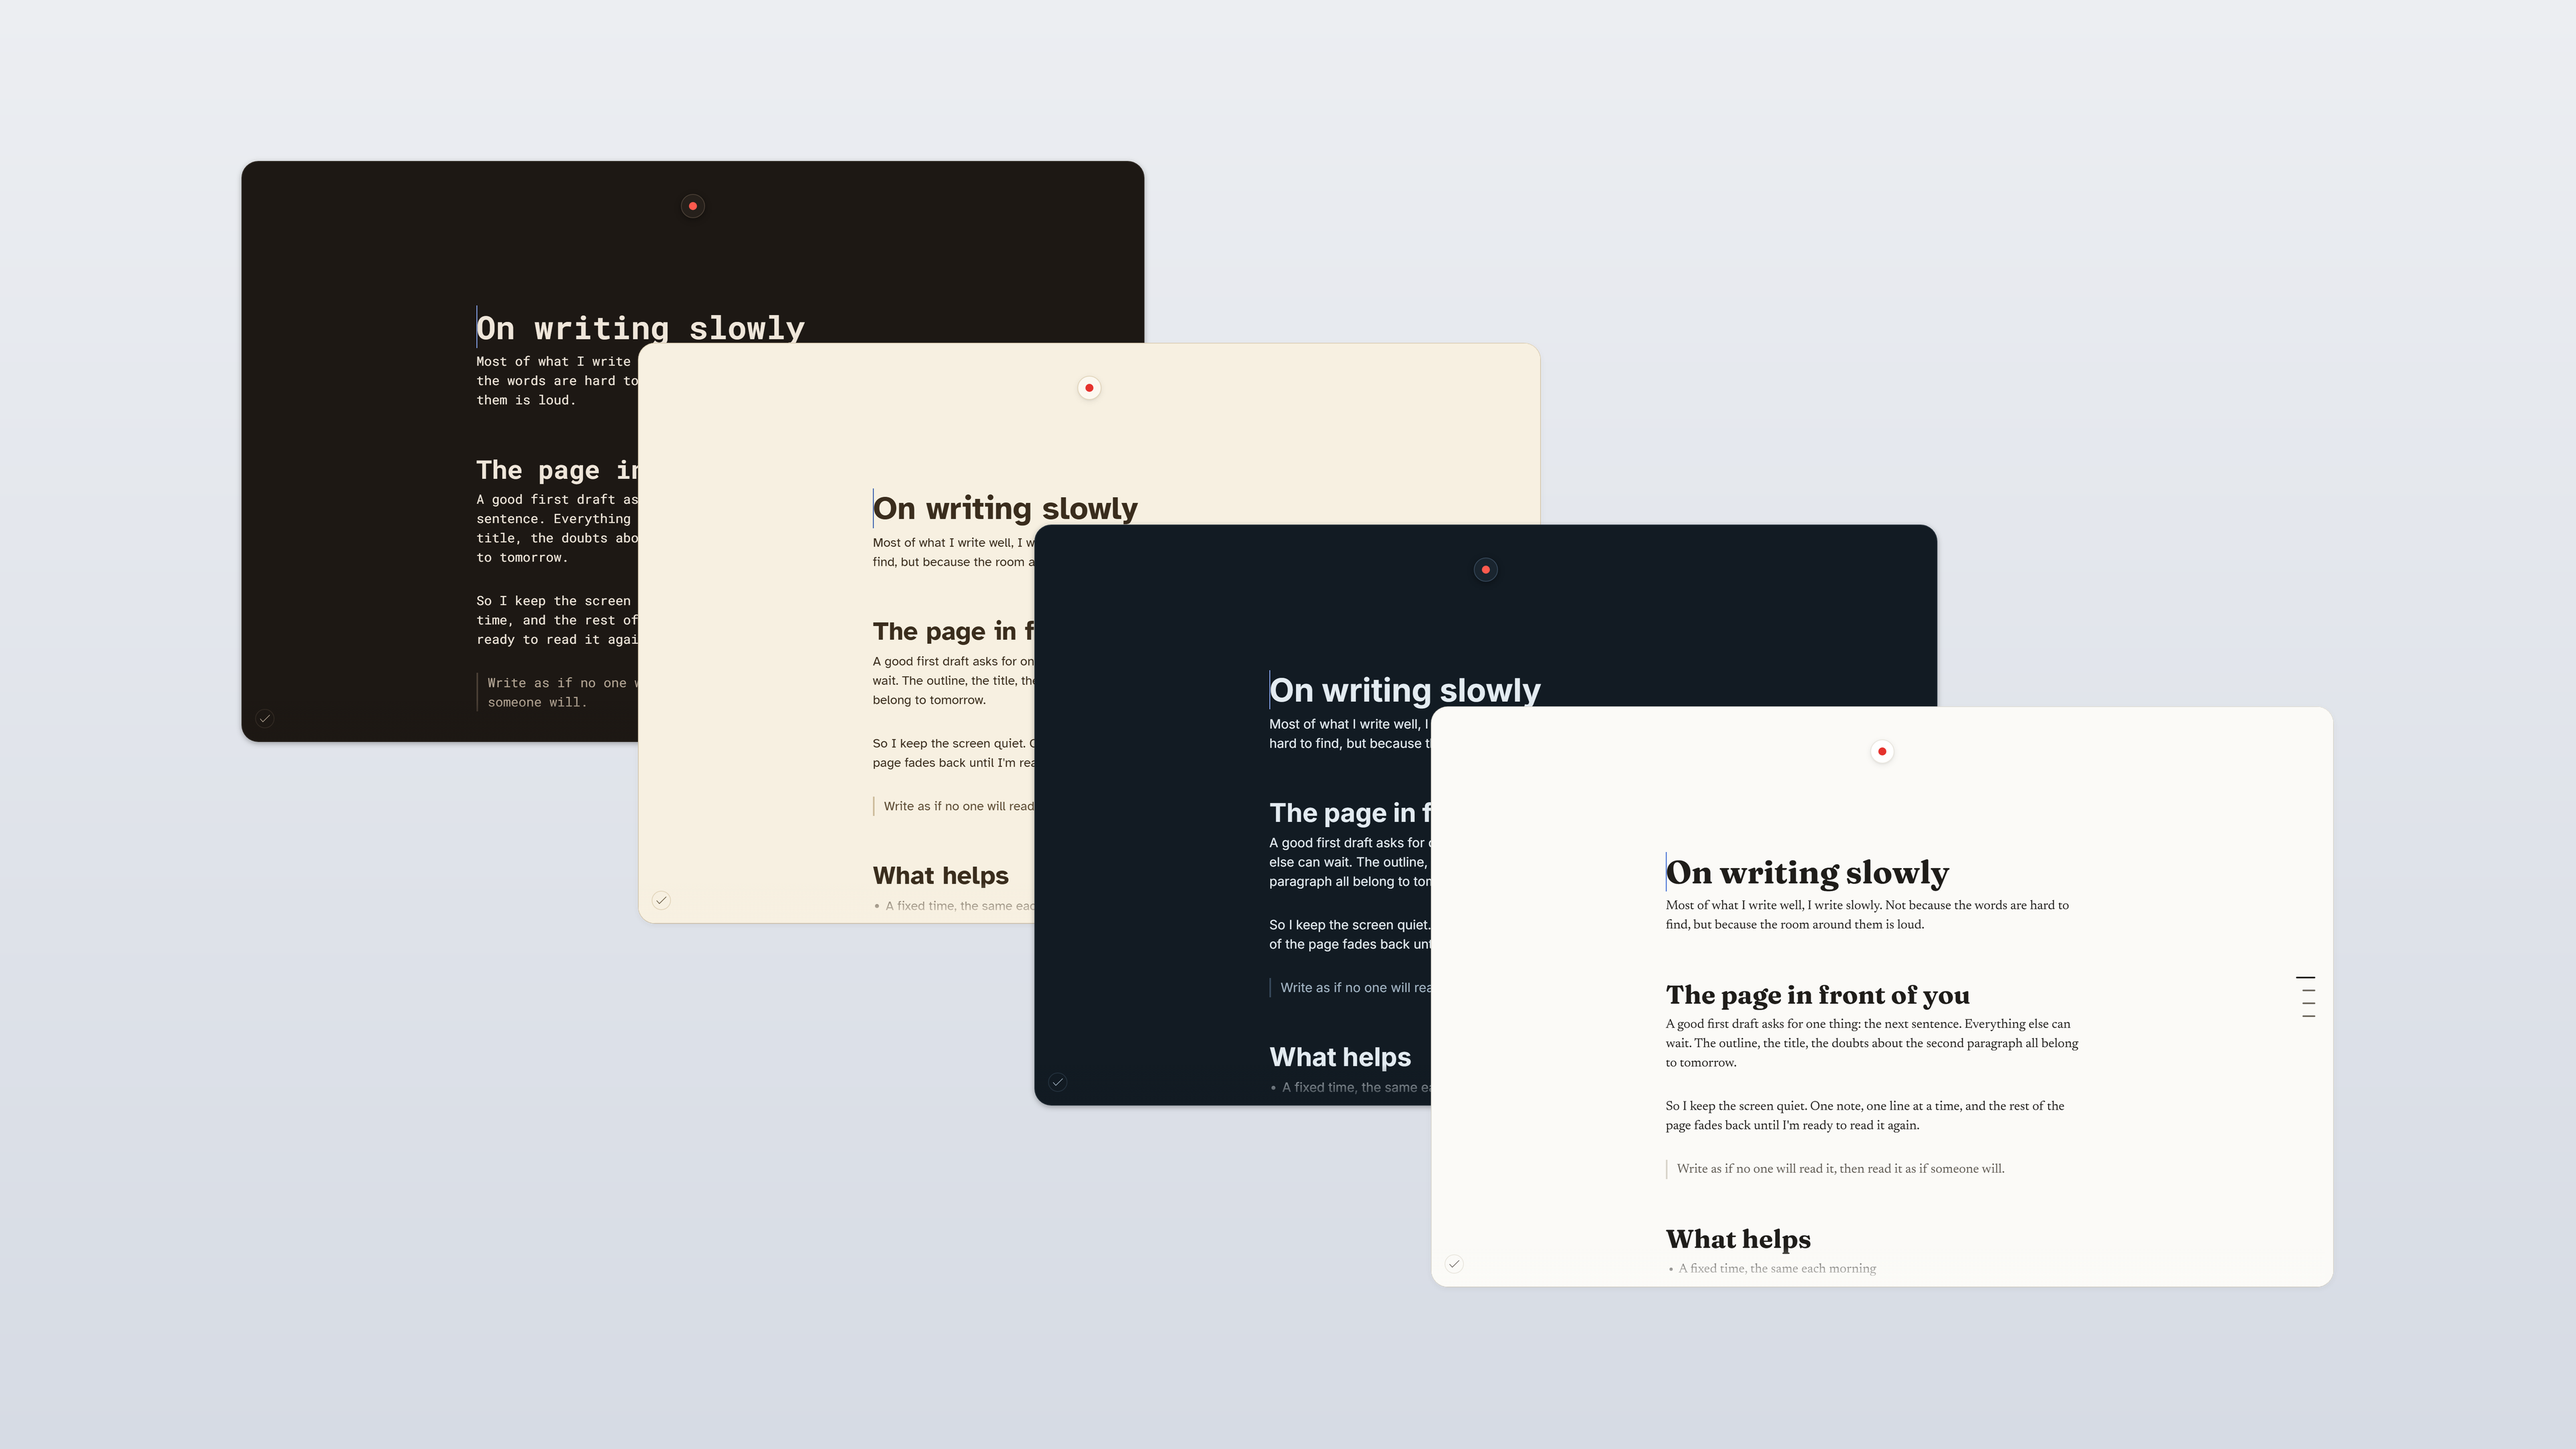
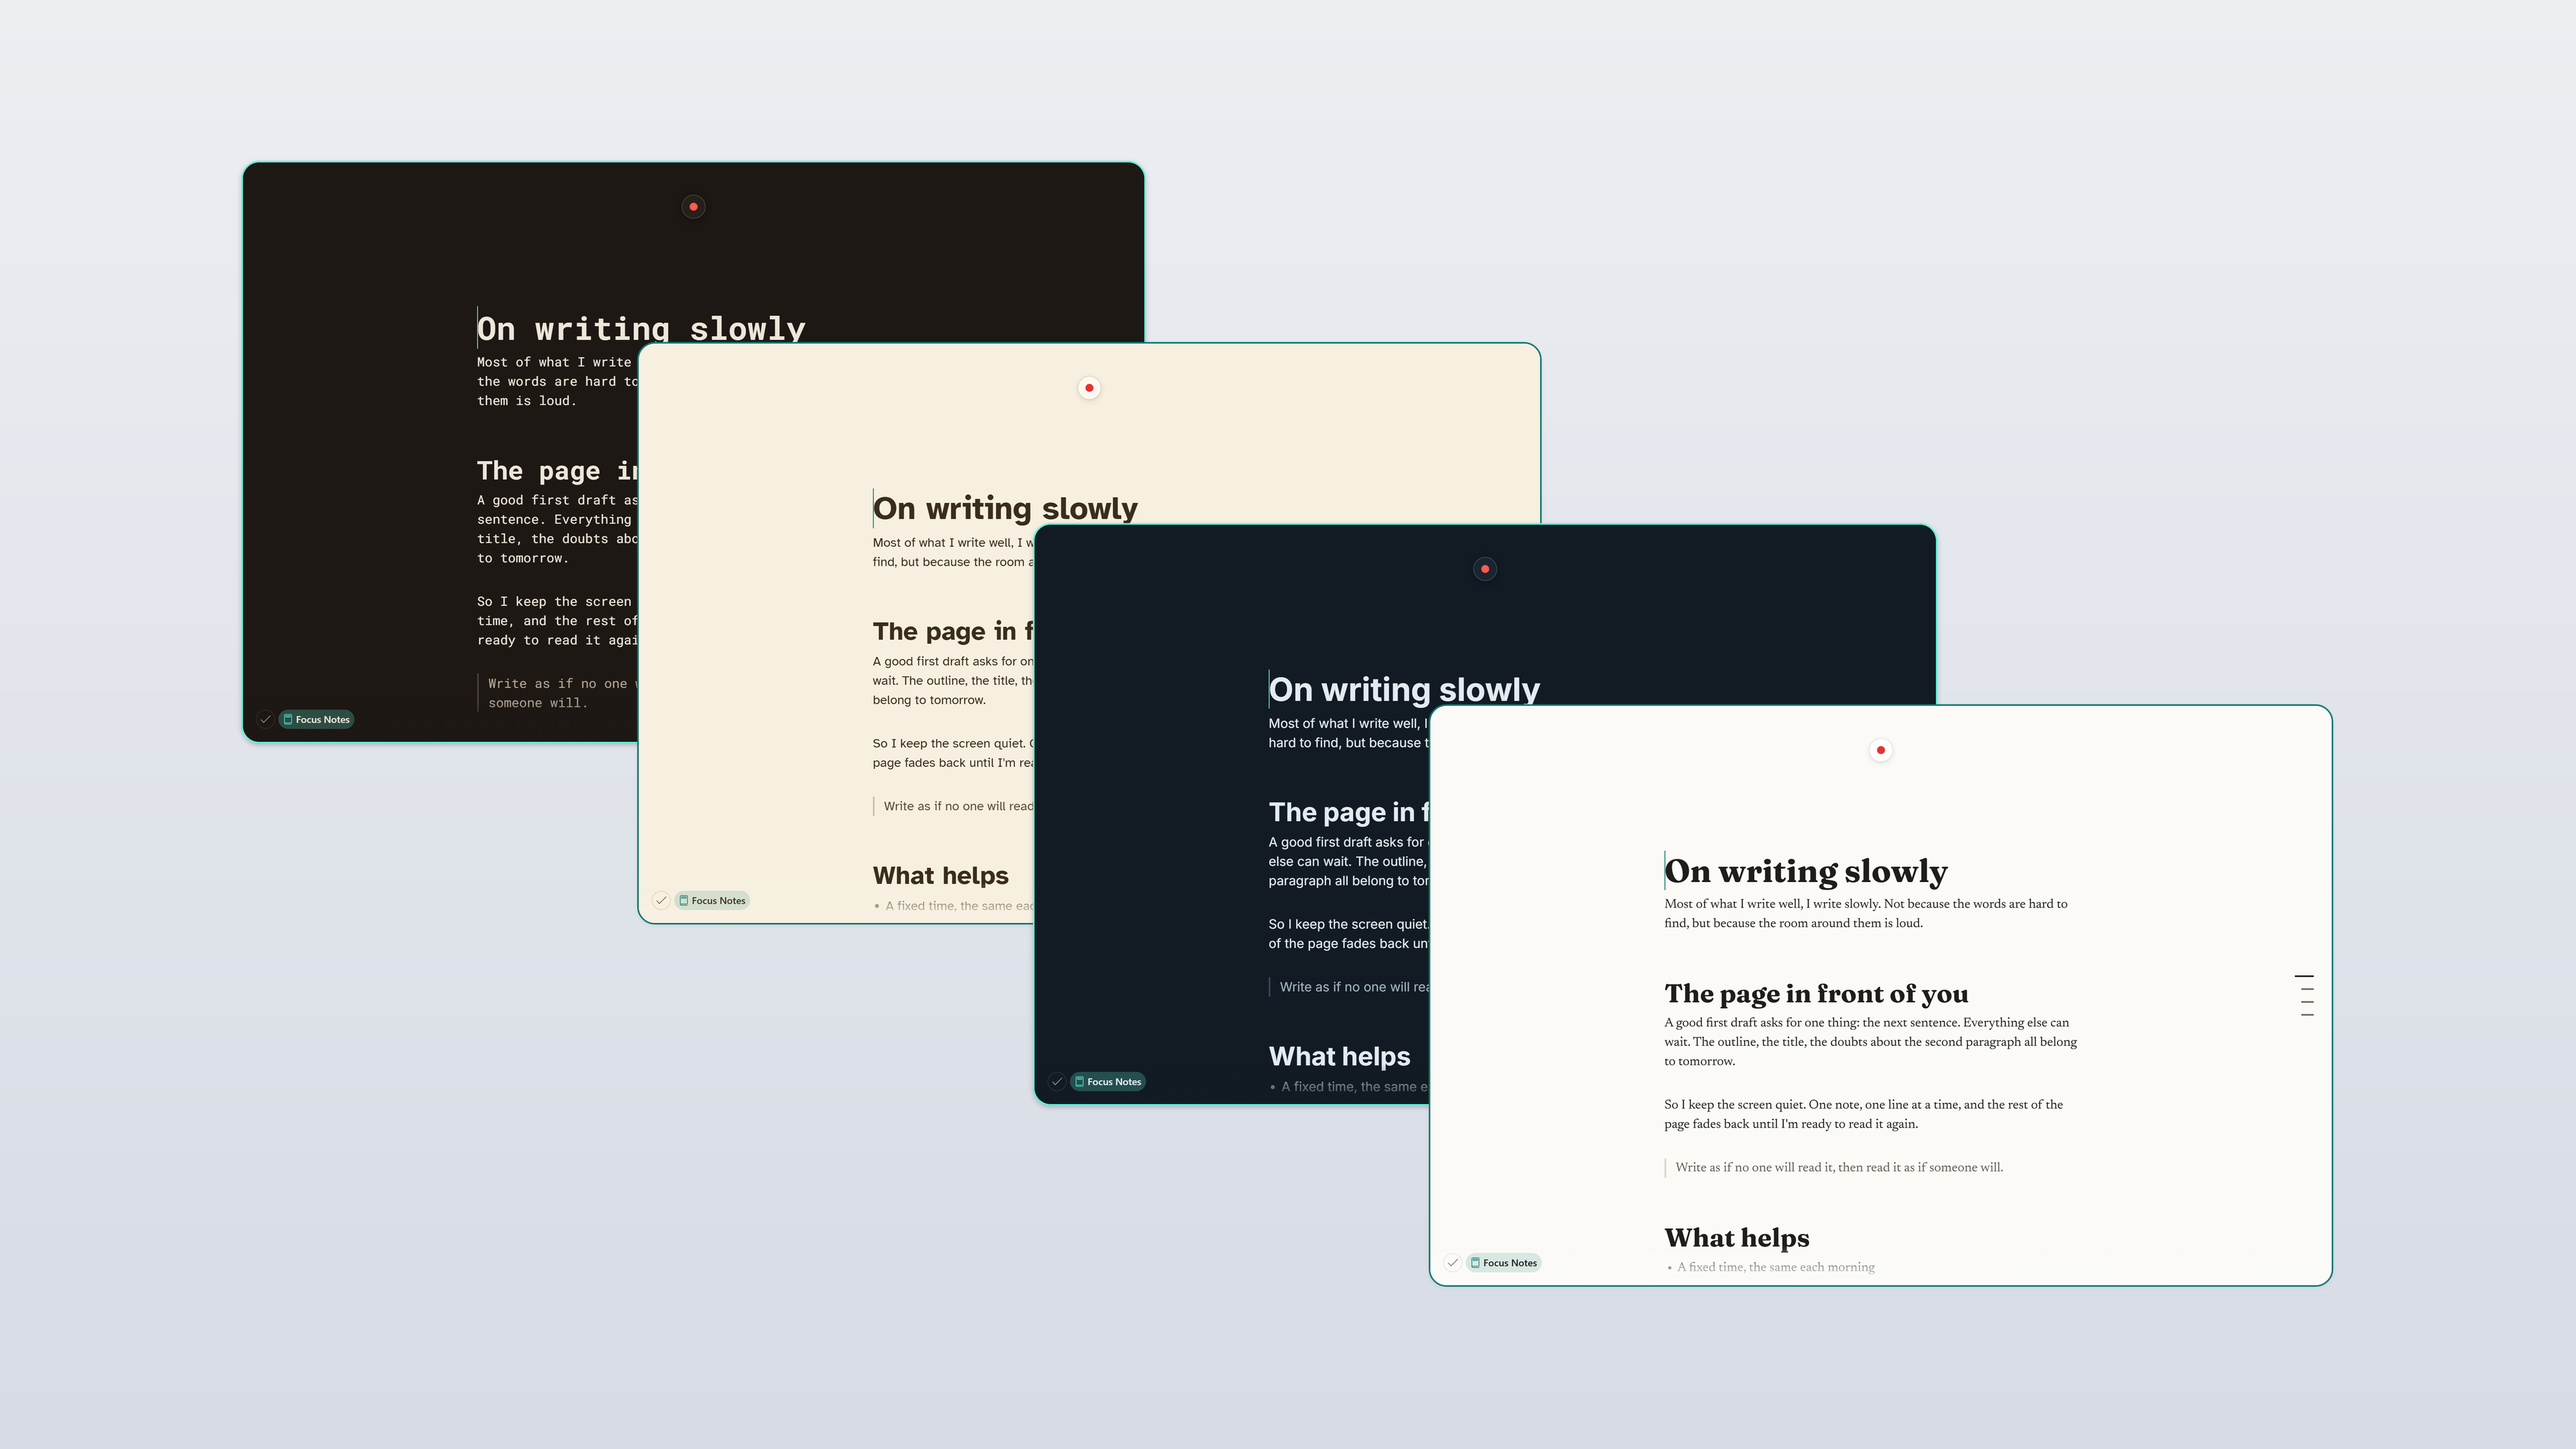
Store screenshots: 10 new PNGs and hero from the CI capture (D-223)

diff --git a/tools/release/store-screenshots.py b/tools/release/store-screenshots.py
@@ -61,7 +61,8 @@ class Window:
         self.box = drawn_box(px)
         x0, y0, x1, y1 = self.box
         self.size = (x1 - x0, y1 - y0)
-        if not preview and (abs(self.size[0] - WINDOW[0]) > 4 or abs(self.size[1] - WINDOW[1]) > 4):
+        # The project's colour outline (2 px a side, drawn at twice the scale) sits just outside the window.
+        if not preview and (abs(self.size[0] - WINDOW[0]) > 8 or abs(self.size[1] - WINDOW[1]) > 8):
             raise SystemExit(f"{path.name}: the window is {self.size[0]} x {self.size[1]}, not {WINDOW[0]} x {WINDOW[1]}: capture it with the store catalogue on CI (or pass --preview)")
         body = px[y0:y1, x0:x1, :3].astype(np.float64)
         self.mode = "light" if (0.2126 * body[..., 0] + 0.7152 * body[..., 1] + 0.0722 * body[..., 2]).mean() >= 128 else "dark"
